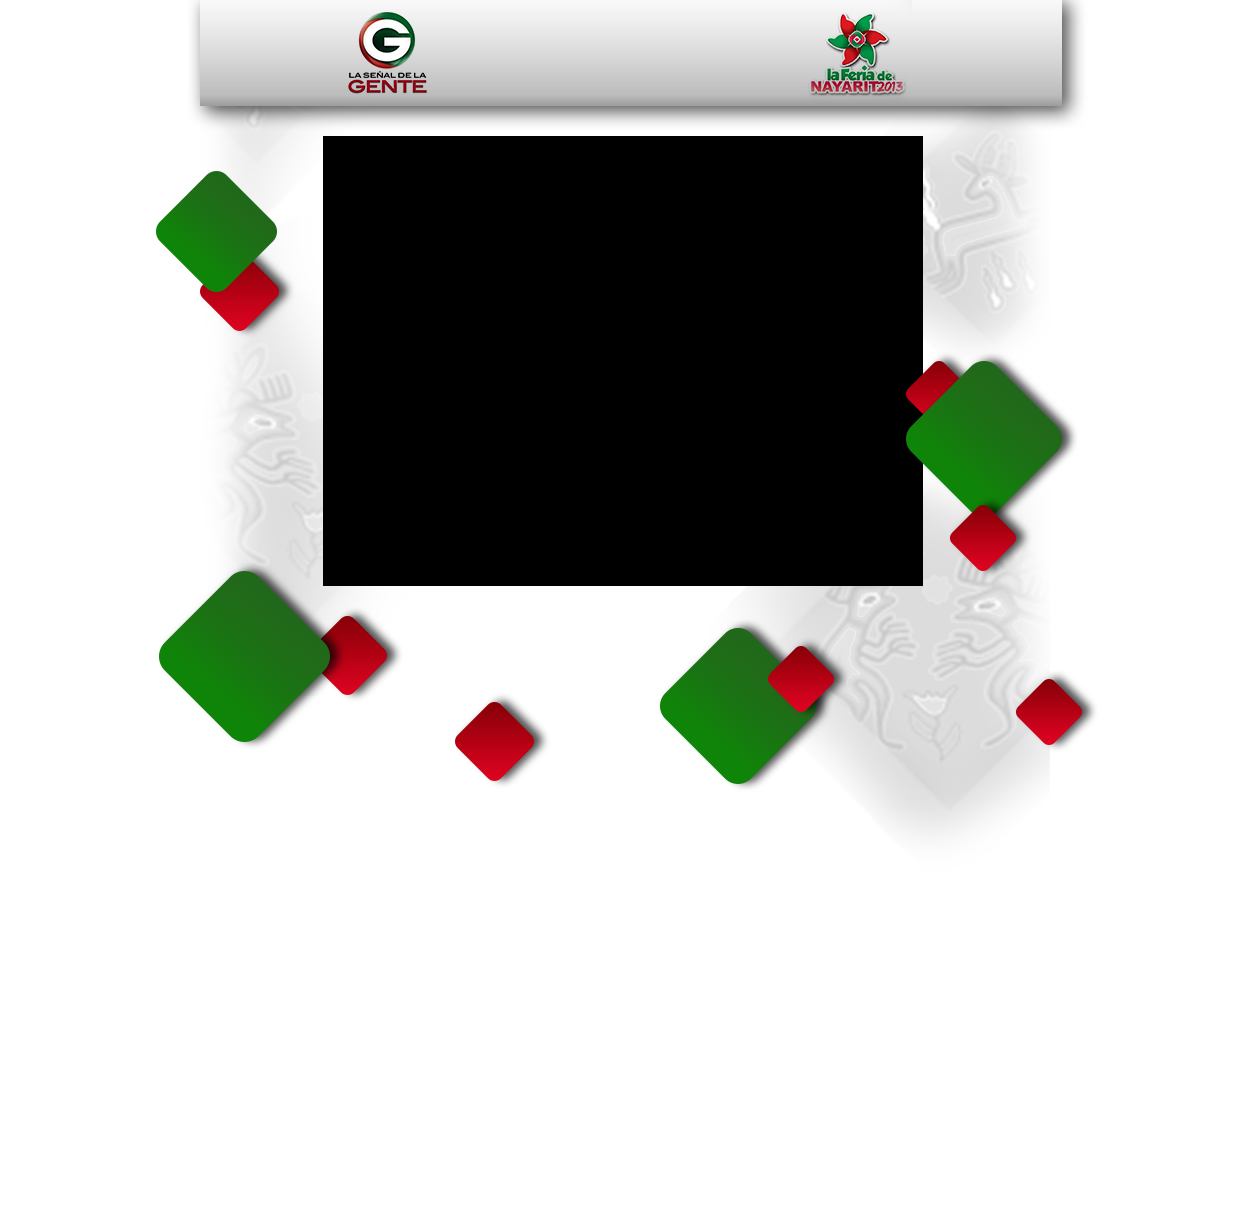
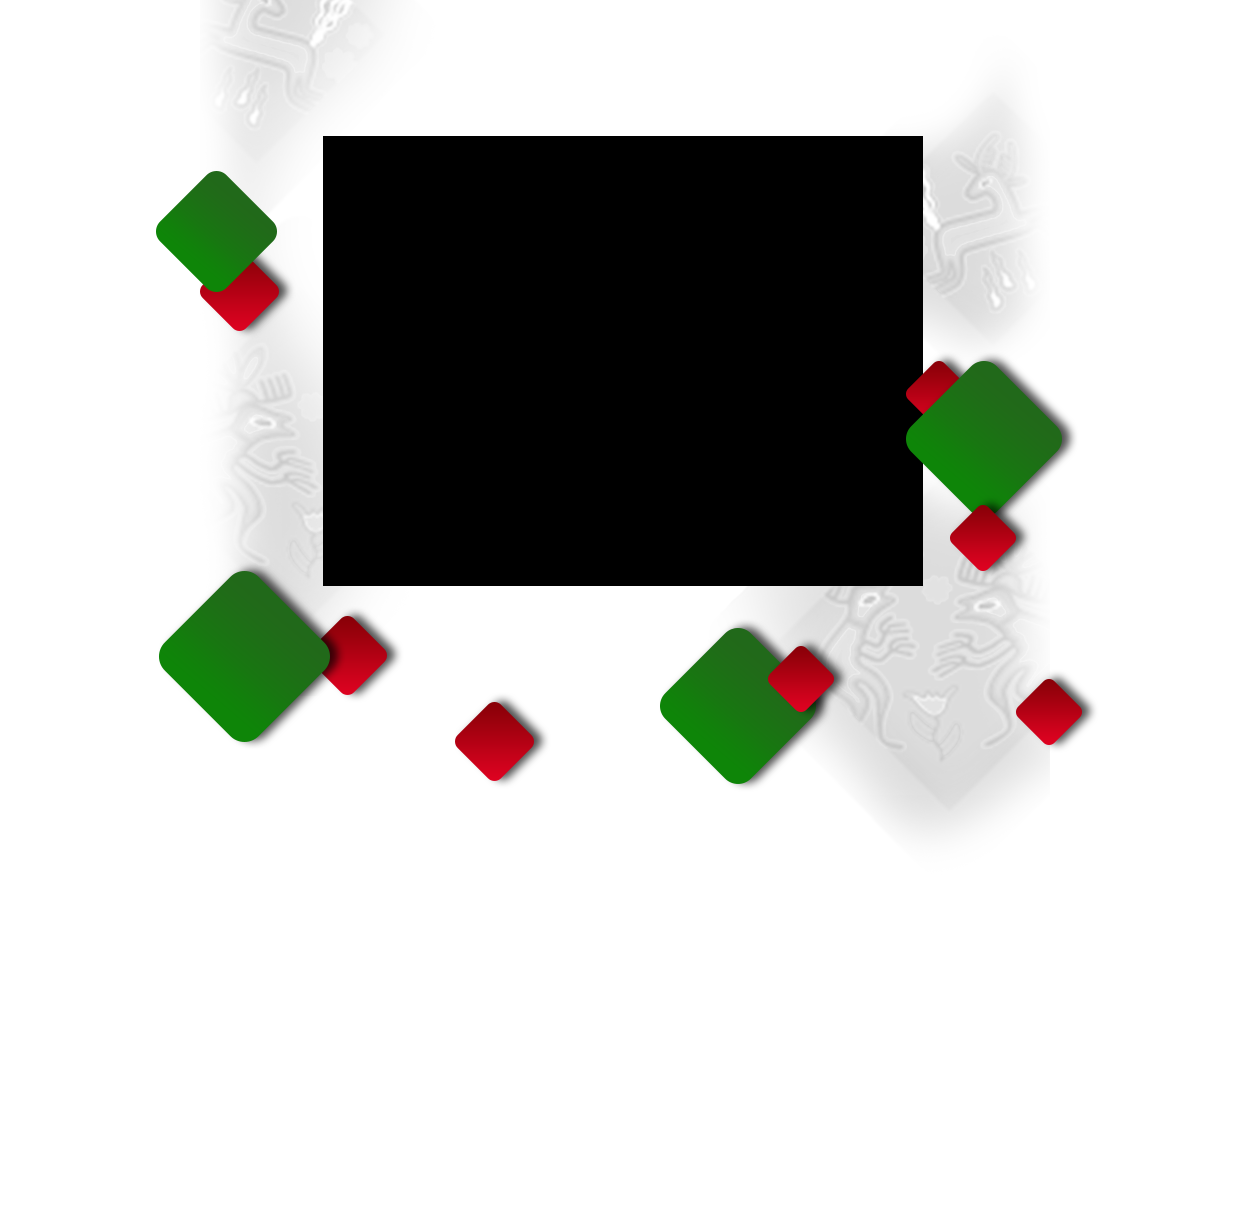
images

Changed region(s): [[0.156, 0.0, 0.8736, 0.1246]]

diff --git a/themes/prensa/css/global.css b/themes/prensa/css/global.css
@@ -857,7 +857,7 @@ body.page-primer-informe{
   width: 600px;
 }
 body.page-node-4777{
-  background: #BE002F;
+  background: white;
   min-width: 600px;
 }
 .page-node-4777 .page{
